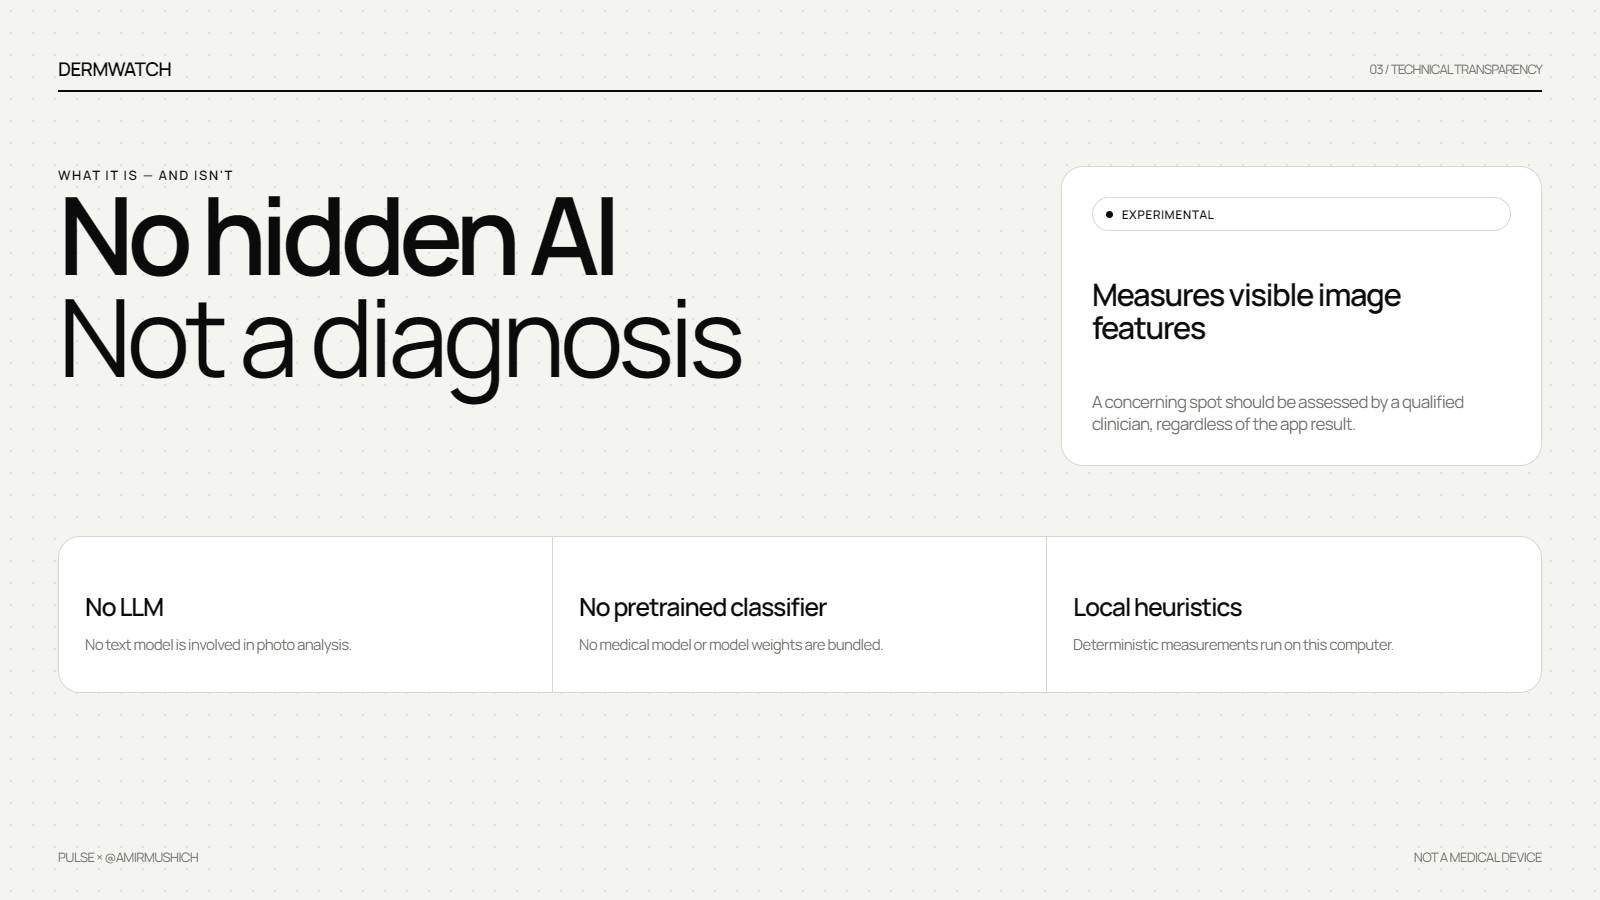
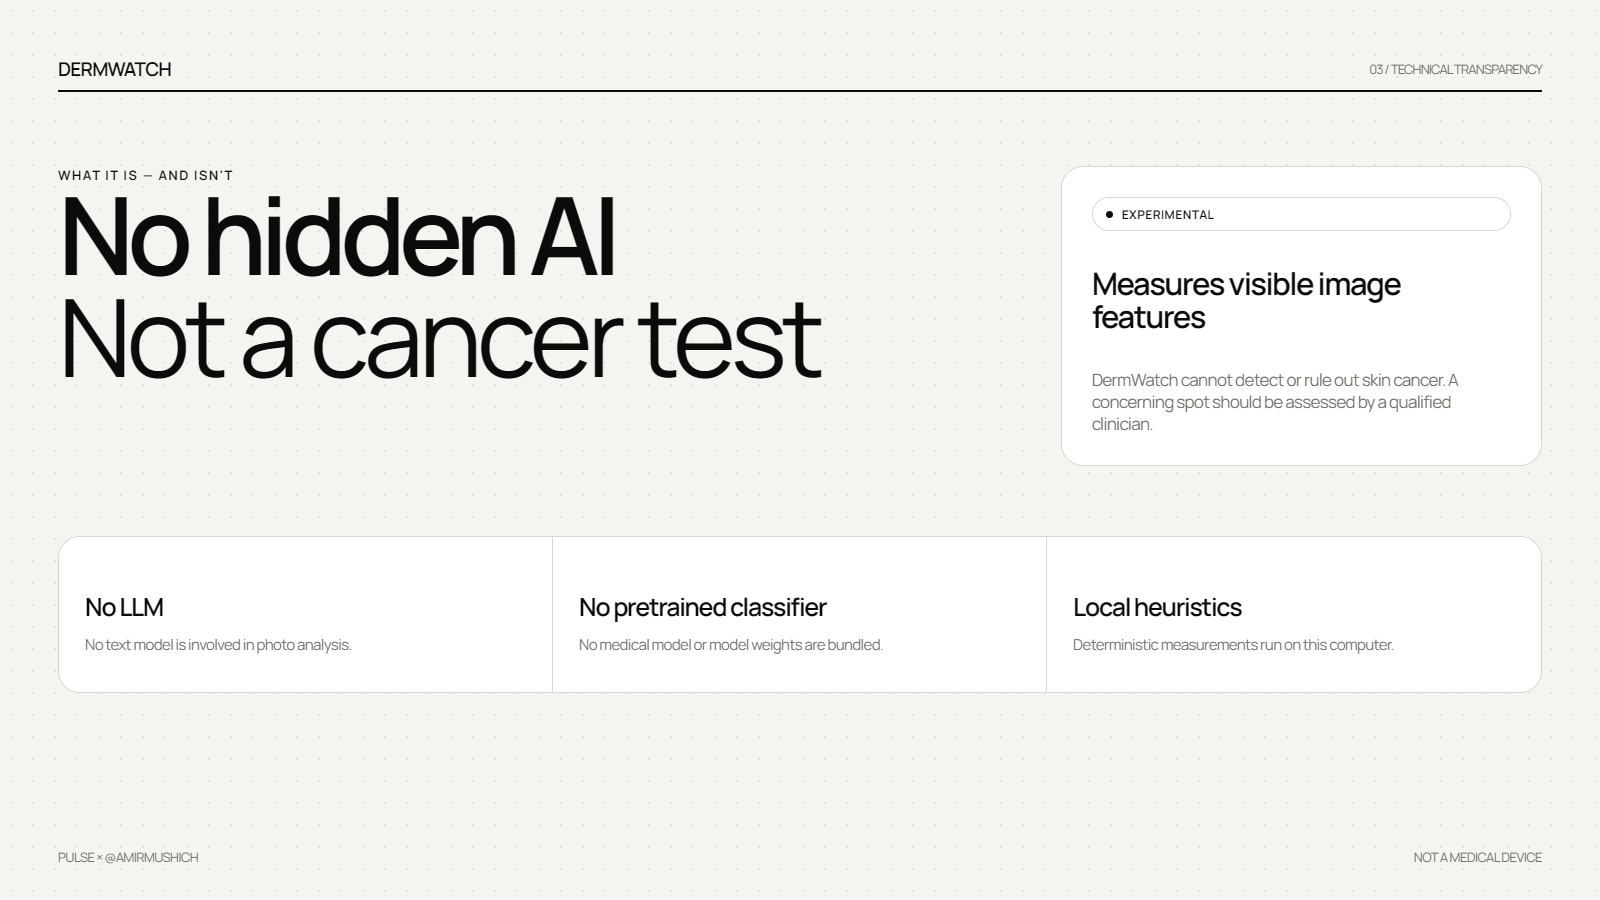
Make skin cancer limitations explicit (#11)

Changed region(s): [[0.2188, 0.3111, 0.5312, 0.4667], [0.6875, 0.4044, 0.9062, 0.4978], [0.6875, 0.3111, 0.875, 0.3733]]

diff --git a/app/globals.css b/app/globals.css
@@ -2024,6 +2024,42 @@ footer {
   font-size: 8px;
 }
 
+.medical-safety {
+  display: grid;
+  grid-template-columns: 180px minmax(0, 1fr);
+  gap: 28px;
+  width: min(1440px, calc(100% - 48px));
+  max-width: 1440px;
+  margin: 0 auto 24px;
+  padding: 24px 28px;
+  border: 1px solid #cfcfc8;
+  border-left: 5px solid #111;
+  border-radius: 14px;
+  background: #f2f2ee;
+}
+
+.medical-safety .eyebrow {
+  margin: 4px 0 0;
+}
+
+.medical-safety h2 {
+  margin: 0;
+  color: #111;
+  font-size: 19px;
+  font-weight: 600;
+  letter-spacing: -0.035em;
+  line-height: 1.15;
+}
+
+.medical-safety p {
+  max-width: 900px;
+  margin: 8px 0 0;
+  color: #555550;
+  font-size: 11px;
+  letter-spacing: -0.04em;
+  line-height: 1.55;
+}
+
 .notice {
   border-color: #111;
   border-radius: 12px;
@@ -2346,9 +2382,16 @@ footer {
 @media (max-width: 760px) {
   .offline-card,
   .empty-state,
-  .workspace {
+  .workspace,
+  .medical-safety {
     width: calc(100% - 24px);
     margin-right: auto;
     margin-left: auto;
+  }
+
+  .medical-safety {
+    grid-template-columns: 1fr;
+    gap: 8px;
+    padding: 20px;
   }
 }

diff --git a/docs/launch/visuals/03-transparency.html b/docs/launch/visuals/03-transparency.html
@@ -23,12 +23,12 @@
       <section class="hero">
         <div>
           <div class="eyebrow">WHAT IT IS — AND ISN'T</div>
-          <h1 class="headline">No hidden AI<br /><span class="accent">Not a diagnosis</span></h1>
+          <h1 class="headline">No hidden AI<br /><span class="accent">Not a cancer test</span></h1>
         </div>
         <article class="card status">
           <span class="tag">EXPERIMENTAL</span>
           <h2>Measures visible image features</h2>
-          <p>A concerning spot should be assessed by a qualified clinician, regardless of the app result.</p>
+          <p>DermWatch cannot detect or rule out skin cancer. A concerning spot should be assessed by a qualified clinician.</p>
         </article>
       </section>
       <section class="truths">

diff --git a/app/page.tsx b/app/page.tsx
@@ -470,6 +470,19 @@ export default function Home() {
         </div>
       </section>
 
+      <section className="medical-safety" role="note" aria-label="Medical safety">
+        <span className="eyebrow">MEDICAL SAFETY</span>
+        <div>
+          <h2>DermWatch does not detect skin cancer</h2>
+          <p>
+            It cannot rule out melanoma or confirm that a spot is benign. It
+            does not provide a diagnosis or cancer-risk score. If a spot is
+            new, changing, different from the others, itching or bleeding,
+            contact a dermatologist.
+          </p>
+        </div>
+      </section>
+
       {notice && (
         <button className="notice" onClick={() => setNotice("")}>
           {notice}

diff --git a/docs/launch/RELEASE_NOTES_v0.2.2.md b/docs/launch/RELEASE_NOTES_v0.2.2.md
@@ -1,0 +1,22 @@
+# DermWatch v0.2.2
+
+DermWatch v0.2.2 makes the product's medical limits explicit wherever users
+first encounter it.
+
+## What changed
+
+- added a persistent medical-safety notice to the main application screen;
+- states plainly that DermWatch does not detect or rule out skin cancer or
+  melanoma;
+- clarifies that the app cannot confirm that a spot is benign and does not
+  provide a diagnosis or cancer-risk score;
+- updated the README, disclaimer, technical transparency document, and launch
+  visual with the same language;
+- added regression tests so this safety wording cannot disappear unnoticed.
+
+## Medical limitation
+
+DermWatch is an experimental visual photo journal, not a medical device or a
+skin-cancer diagnosis system. Its image-processing heuristics have not been
+clinically validated. A new, changing, different, itching, bleeding, or
+otherwise concerning spot should be assessed by a qualified clinician.

diff --git a/README.md b/README.md
@@ -5,9 +5,11 @@ moles and other skin spots over time. Image analysis and storage stay on the
 user's device.
 
 > [!IMPORTANT]
-> DermWatch is not a medical device and does not diagnose cancer. A visual
-> screen cannot confirm that a mole is benign. New, changing, bleeding, itching,
-> or otherwise concerning spots should be assessed by a qualified clinician.
+> **DermWatch does not detect or rule out skin cancer or melanoma.** It is not
+> a medical device and does not provide a diagnosis or cancer-risk score. A
+> visual screen cannot confirm that a spot is benign. New, changing, different,
+> itching, bleeding, or otherwise concerning spots should be assessed by a
+> qualified clinician.
 
 ![DermWatch empty journal screen](docs/screenshots/overview.png)
 

diff --git a/TECHNICAL_TRANSPARENCY.md b/TECHNICAL_TRANSPARENCY.md
@@ -23,9 +23,10 @@ specificity, or diagnostic accuracy.
 ## What a result means
 
 A DermWatch result describes visible measurements in the supplied image. It
-does not determine whether a lesion is benign or malignant. Different lighting,
-distance, focus, camera processing, skin deformation, or the wrong spot can
-change the measurements.
+does not detect or rule out skin cancer or melanoma, and it cannot determine
+whether a lesion is benign or malignant. Different lighting, distance, focus,
+camera processing, skin deformation, or the wrong spot can change the
+measurements.
 
 ## Data flow
 

diff --git a/docs/launch/THREAD_RU.md b/docs/launch/THREAD_RU.md
@@ -29,7 +29,8 @@ Visual: `02-workflow.png`.
 
 ## Post 3 — transparent limitations
 
-Честное ограничение: DermWatch не ставит диагноз.
+Честное ограничение: DermWatch не выявляет и не исключает рак кожи или
+меланому. Он не может подтвердить, что родинка доброкачественная.
 
 Внутри нет LLM или готовой медицинской нейросети — только локальные эвристики
 компьютерного зрения.

diff --git a/docs/AI_PULSE_LISTING.md b/docs/AI_PULSE_LISTING.md
@@ -16,8 +16,9 @@ follow-up photos, check image quality, and compare measurable visual changes.
 All processing and storage happen on the user's computer. No account, cloud AI,
 or separate runtime is required.
 
-DermWatch is an experimental monitoring tool, not a medical device and not a
-cancer diagnosis system.
+DermWatch does not detect or rule out skin cancer or melanoma and cannot
+confirm that a spot is benign. It is an experimental monitoring tool, not a
+medical device, diagnosis system, or cancer-risk score.
 
 ## Category and tags
 

diff --git a/DISCLAIMER.md b/DISCLAIMER.md
@@ -1,7 +1,8 @@
 # Medical and research disclaimer
 
-DermWatch is an experimental visual monitoring tool. It is not a medical
-device, diagnostic system, clinical decision-support system, or substitute for
+DermWatch does not detect or rule out skin cancer or melanoma. It is an
+experimental visual monitoring tool, not a medical device, diagnostic system,
+clinical decision-support system, cancer-risk score, or substitute for
 professional medical care.
 
 Its image-processing rules have not been validated in a clinical trial and do

diff --git a/docs/launch/README.md b/docs/launch/README.md
@@ -10,7 +10,7 @@ The launch thread is prepared as four posts:
 
 The Russian review copy is in [`THREAD_RU.md`](THREAD_RU.md), and the English
 publication copy is in [`THREAD_EN.md`](THREAD_EN.md). Release notes are in
-[`RELEASE_NOTES_v0.2.1.md`](RELEASE_NOTES_v0.2.1.md). The HTML files in
+[`RELEASE_NOTES_v0.2.2.md`](RELEASE_NOTES_v0.2.2.md). The HTML files in
 `visuals/` are editable sources for the 1600 x 900 PNG assets.
 
 Before publication, review the Russian and English copy, attach the main demo

diff --git a/docs/launch/THREAD_EN.md b/docs/launch/THREAD_EN.md
@@ -29,7 +29,8 @@ Visual: `02-workflow.png`.
 
 ## Post 3 — limitations
 
-The honest limitation: DermWatch does not diagnose skin cancer.
+The honest limitation: DermWatch does not detect or rule out skin cancer or
+melanoma. It cannot confirm that a spot is benign.
 
 There is no LLM or pretrained medical model inside — only experimental local
 computer-vision heuristics.
